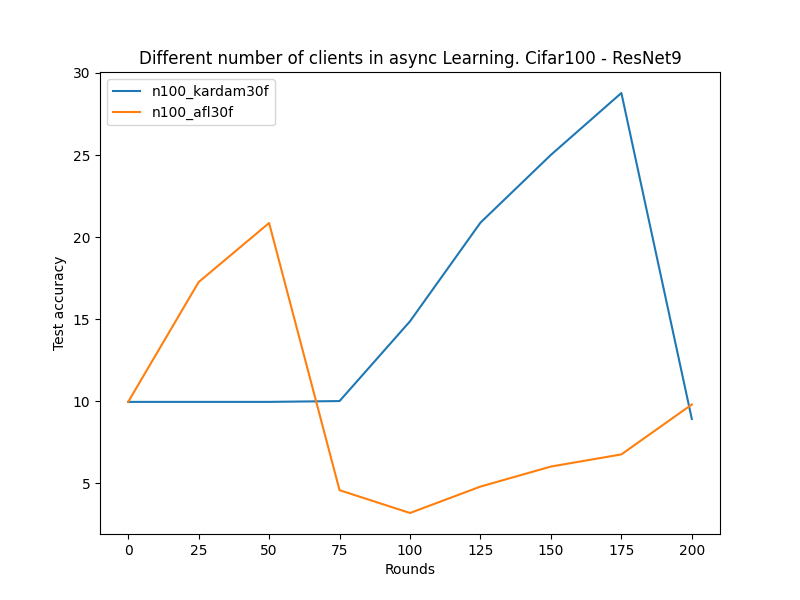
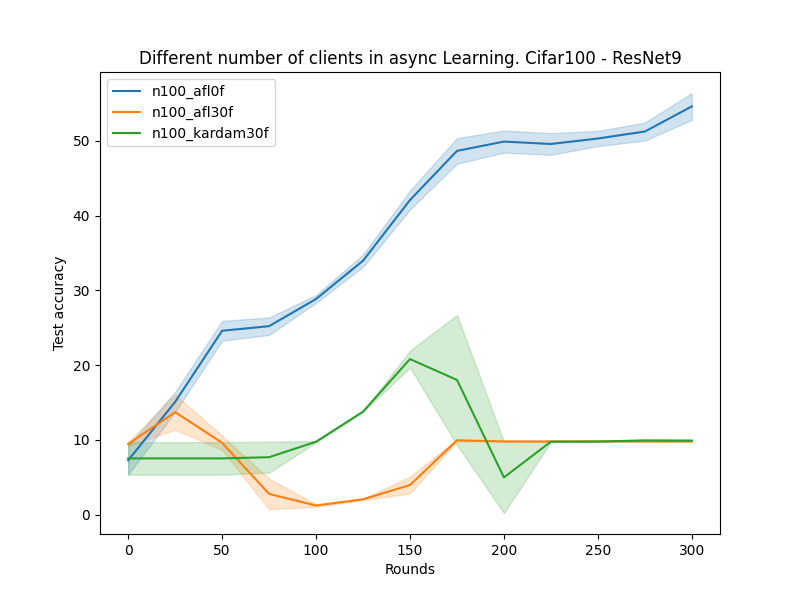
BaSGD

diff --git a/exp0a_start.py b/exp0a_start.py
@@ -29,49 +29,83 @@ if __name__ == '__main__':
         configs = []
         model_list = ['mnist-cnn']
         dataset = 'mnist'
-        f = 30  # number of byzantine clients
+        f = 3  # number of byzantine clients
         # num_rounds = 50*10
         num_rounds = 300
         idx = 1
         repetitions = 2
         limit = 100
-        num_clients = [100]
+        num_clients = [10]
         exp_id = 0
+        s_lr = 0.1
         # num_clients = [50, 25, 10, 5, 1]
         for _r in range(repetitions):
             for n in num_clients:
                 for model_name in model_list:
-                    # exp_id += 1
-                    # configs.append({
-                    #     'exp_id': exp_id,
-                    #     'aggregation_type': 'async',
-                    #     'client_participartion': 0.2,
-                    #     'name': f'afl-{model_name}-{dataset}-n{n}_afl0f',
-                    #     'num_rounds': num_rounds,
-                    #     'clients': {
-                    #             'client': AFL.Client,
-                    #             'client_args': {
-                    #                 'sampler': 'uniform',
-                    #                 'sampler_args': {
-                    #                 }
-                    #             },
-                    #         'client_ct': [200] * (n - f),
-                    #         'n': n,
-                    #         'f': f,
-                    #         'f_type': AFL.Client,
-                    #         'f_args': {'sampler': 'uniform',
-                    #                 'sampler_args': {
-                    #                 },
-                    #                 },
-                    #         'f_ct': [200] * f
-                    #     },
-                    #     'server': AFL.Server,
-                    #     'server_args': {
-                    #         # 'damp_alpha': 0.01
-                    #     },
-                    #     'dataset_name': dataset,
-                    #     'model_name': model_name
-                    # })
+                    exp_id += 1
+                    configs.append({
+                        'exp_id': exp_id,
+                        'aggregation_type': 'async',
+                        'client_participartion': 0.2,
+                        'name': f'afl-{model_name}-{dataset}-n{n}_basgd{f}f',
+                        'num_rounds': num_rounds,
+                        'clients': {
+                                'client': AFL.Client,
+                                'client_args': {
+                                    'sampler': 'uniform',
+                                    'sampler_args': {
+                                    }
+                                },
+                            'client_ct': [200] * (n - f),
+                            'n': n,
+                            'f': f,
+                            'f_type': AFL.NGClient,
+                            'f_args': {'sampler': 'uniform',
+                                    'sampler_args': {
+                                    },
+                                    'magnitude': 10},
+                            'f_ct': [200] * f
+                        },
+                        'server': AFL.BASGD,
+                        'server_args': {
+                            'num_buffers': 4,
+                            'learning_rate': 0.1,
+                        },
+                        'dataset_name': dataset,
+                        'model_name': model_name
+                    })
+                    exp_id += 1
+                    configs.append({
+                        'exp_id': exp_id,
+                        'aggregation_type': 'async',
+                        'client_participartion': 0.2,
+                        'name': f'afl-{model_name}-{dataset}-n{n}_afl0f',
+                        'num_rounds': num_rounds,
+                        'clients': {
+                                'client': AFL.Client,
+                                'client_args': {
+                                    'sampler': 'uniform',
+                                    'sampler_args': {
+                                    }
+                                },
+                            'client_ct': [200] * (n - f),
+                            'n': n,
+                            'f': f,
+                            'f_type': AFL.Client,
+                            'f_args': {'sampler': 'uniform',
+                                    'sampler_args': {
+                                    },
+                                    },
+                            'f_ct': [200] * f
+                        },
+                        'server': AFL.Server,
+                        'server_args': {
+                            # 'damp_alpha': 0.01
+                            'learning_rate': 0.1,
+                        },
+                        'dataset_name': dataset,
+                        'model_name': model_name
+                    })
                     exp_id += 1
                     configs.append({
                         'exp_id': exp_id,
@@ -93,16 +127,18 @@ if __name__ == '__main__':
                             'f_args': {'sampler': 'uniform',
                                     'sampler_args': {
                                     },
-                                    'magnitude': 10},
+                                    'magnitude': 5},
                             'f_ct': [200] * f
                         },
                         'server': AFL.Server,
                         'server_args': {
                             # 'damp_alpha': 0.01
+                            'learning_rate': 0.1,
                         },
                         'dataset_name': dataset,
                         'model_name': model_name
                     })
+                    
                     exp_id += 1
                     configs.append({
                         'exp_id': exp_id,
@@ -124,12 +160,13 @@ if __name__ == '__main__':
                             'f_args': {'sampler': 'uniform',
                                     'sampler_args': {
                                     },
-                                    'magnitude': 10},
+                                    'magnitude': 5},
                             'f_ct': [1] * f
                         },
                         'server': AFL.Kardam,
                         'server_args': {
-                            'damp_alpha': 0.01
+                            'damp_alpha': 0.01,
+                            'learning_rate': 0.1,
                         },
                         'dataset_name': dataset,
                         'model_name': model_name
@@ -146,7 +183,7 @@ if __name__ == '__main__':
                 # @TODO: Append to output instead of overwriting
                 # print(configs)
             # exit()
-        outputs = AFL.Scheduler.run_multiple(configs, pool_size=6)
+        outputs = AFL.Scheduler.run_multiple(configs, pool_size=1)
 
         # Replace class names with strings for serialization
         for i in outputs:

diff --git a/asyncfl/basgd.py b/asyncfl/basgd.py
@@ -4,7 +4,7 @@ import copy
 import numpy as np
 import torch
 from asyncfl import Server
-from asyncfl.network import unflatten_g
+from asyncfl.network import flatten, unflatten_g
 
 
 class Buffer:
@@ -168,5 +168,10 @@ class BASGD(Server):
                 avg_grad = krum_aggregation(buffer_gradients, self.q)
             else:
                 avg_grad = torch.mean(torch.stack(buffer_gradients), dim=0)
-            self.aggregate(avg_grad)
-        return self.get_model_weights()
+            print(f'Aggregate!!!! --> {avg_grad}')
+            # self.aggregate(avg_grad)
+            self.aggregate(buffer_gradients[0])
+            
+
+        return flatten(self.network)
+        # return self.get_model_weights()
